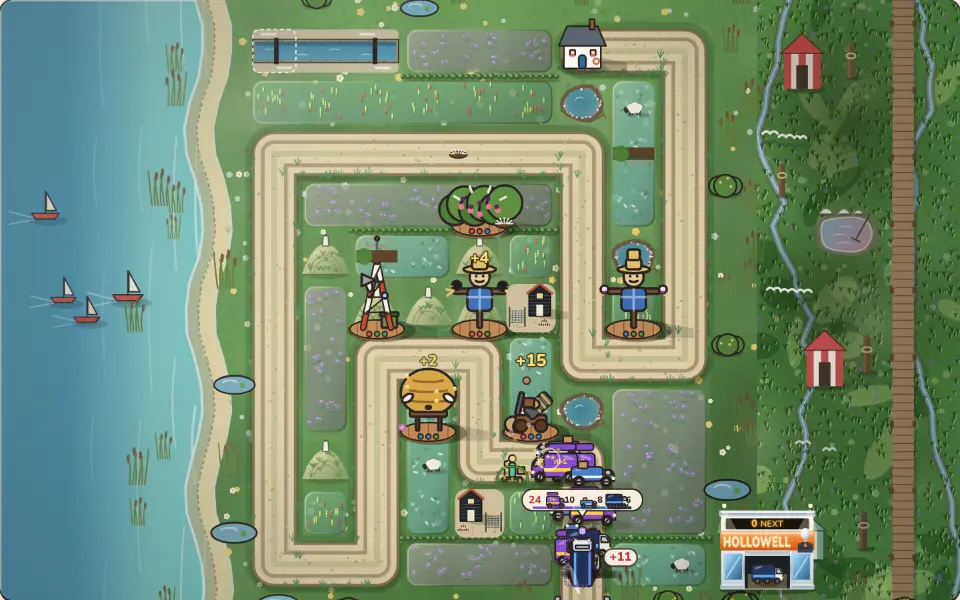
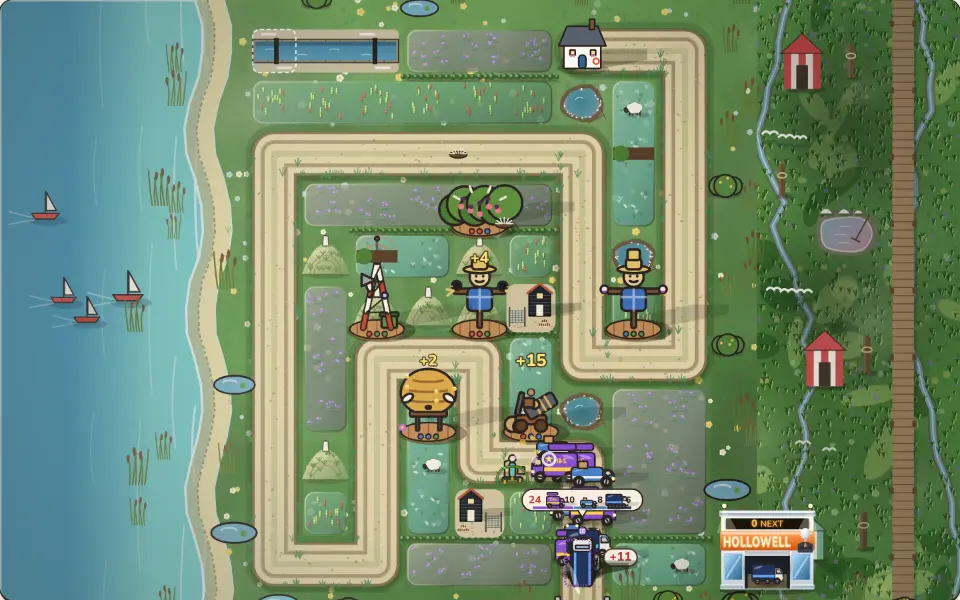
Hedgerow day across a level: in the last third the farmhouse is lamplit in 2D (warm pools at its windows, the door on a lit hall); Hedgerow key art re-shot (render.ts and sprites.ts changed) (plan item 485, slice 1)
Claude-Session: https://claude.ai/code/session_01SimvMRhXcBtuKMY5hADHgk

diff --git a/games/hedgerow/src/sprites.ts b/games/hedgerow/src/sprites.ts
@@ -28,6 +28,11 @@ let sun2d = { x: 0.94, y: 0.34 };
 export function setShadowSun(dir: { x: number; y: number }): void {
   sun2d = dir;
 }
+/** Plan item 485: in the day's last third the farm's lamps are lit (the farmhouse windows glow out onto the yard). */
+let lamps2d = false;
+export function setLamps(on: boolean): void {
+  lamps2d = on;
+}
 export function shadowSun(): { x: number; y: number } {
   return sun2d;
 }
@@ -2541,6 +2546,20 @@ export function drawFarmhouse(ctx: C, x: number, y: number, s: number, t: number
   rr(ctx, x - s * 0.07, base - s * 0.26, s * 0.14, s * 0.26, s * 0.06, H.door);
   for (const wx of [-0.24, 0.16]) {
     rr(ctx, x + wx * s, base - s * 0.36, s * 0.1, s * 0.1, s * 0.01, "#ffe39a");
+  }
+  if (lamps2d) {
+    // lamplight: each window's warm pool, and the door left ajar on a lit hall
+    ctx.save();
+    ctx.globalCompositeOperation = "lighter";
+    for (const [cx, cy, r] of [[x - s * 0.19, base - s * 0.31, s * 0.32], [x + s * 0.21, base - s * 0.31, s * 0.32], [x, base - s * 0.08, s * 0.42]] as const) {
+      const g = ctx.createRadialGradient(cx, cy, 0, cx, cy, r);
+      g.addColorStop(0, "rgba(255,196,96,0.55)");
+      g.addColorStop(1, "rgba(255,150,60,0)");
+      ctx.fillStyle = g;
+      ctx.fillRect(cx - r, cy - r, r * 2, r * 2);
+    }
+    ctx.restore();
+    rr(ctx, x - s * 0.07, base - s * 0.26, s * 0.05, s * 0.26, s * 0.02, "#ffd27a");
   }
   // Flower boxes.
   ctx.fillStyle = "#e8748b";

diff --git a/games/hedgerow/src/render.ts b/games/hedgerow/src/render.ts
@@ -67,9 +67,10 @@ import {
   star,
   drawThornPile,
   castShadow,
+  setLamps,
   setShadowSun,
 } from "./sprites";
-import { dayPhase, dayShadowDir, dayShadowLength, daySunRgb, dayWarmth } from "./sunlight";
+import { dayLamps, dayPhase, dayShadowDir, dayShadowLength, daySunRgb, dayWarmth } from "./sunlight";
 
 /** Plan item 322: a tower on the field is drawn this much over its cell's size. */
 // Plan item 431: 1.4 cells (was 1.2): a tower is the thing worth looking at on the field, not a token on its plot (at
@@ -814,6 +815,7 @@ export class Renderer {
     const away = dayShadowDir(game.level.id, this.day);
     const len = dayShadowLength(this.day);
     setShadowSun({ x: away.x * len, y: away.y * len });
+    setLamps(dayLamps(this.day));
     this.clock += dt;
     this.cheer = Math.max(0, this.cheer - dt);
     this.gold.age += dt;

diff --git a/docs/plan/two-week-plan.md b/docs/plan/two-week-plan.md
@@ -4520,7 +4520,7 @@ Progress (lane A, 2026-11-18 00:35, slice 1, d3a4d29): `src/ui/dailyPostcard.ts`
 
 ## 485. [ ] Hedgerow: the day passes over the field, morning to dusk across a level *(handed back 2026-11-18 02:40 by lane A after slice 1)*
 
-Progress (lane A, 2026-11-18 02:40, slice 1): the model in `sunlight.ts` (`dayPhase`, `dayAzFor` ±40 about the act's noon, `dayShadowDir`, `dayShadowLength` 1 at noon to 1.8, `dayWarmth` after noon, `dayLamps` from 2/3, `daySunRgb`), `tests/hedgerow-dayphase.test.ts`; `#stage[data-day-phase]` and `[data-lamps]` from main.ts's frame (the build phase shows the next round, so it never turns mid-wave); the 2D renderer eases `this.day` over 1.2 s (stepped under reduced motion) and sends the swung, lengthened sun to `setShadowSun` and `sunGrade`, plus a warm multiply in `sunGrade` by `dayWarmth`. The ease first ran on the game's dt, which is 0 between rounds while it waits on Go, so the light never moved: it now runs on wall-clock time, and the dusk shows (l21 2D round 26 warm, the lane amber: `e2e/screenshots/h485/c-*`). New spec hedgerow-dayphase (P, D): phase 0/1, lamps off/on, the field's 200x100 sample shifts dE 16.0 at P, 16.6 at D (just over 15: the 3D slice shouldn't weaken the 2D wash). Left: 3D (`render3d/palette.ts`, `backdrop.ts`), the lamps, the static terrain shadows (`theme.ts` uses `shadowDir` at build), shots P/D 2D/3D rounds 1/13/26. hedgerow-water passes at D.
+Progress (lane A, 2026-11-18 02:40, slice 1): the model in `sunlight.ts` (`dayPhase`, `dayAzFor` ±40 about the act's noon, `dayShadowDir`, `dayShadowLength` 1 at noon to 1.8, `dayWarmth` after noon, `dayLamps` from 2/3, `daySunRgb`), `tests/hedgerow-dayphase.test.ts`; `#stage[data-day-phase]` and `[data-lamps]` from main.ts's frame (the build phase shows the next round, so it never turns mid-wave); the 2D renderer eases `this.day` over 1.2 s (stepped under reduced motion) and sends the swung, lengthened sun to `setShadowSun` and `sunGrade`, plus a warm multiply in `sunGrade` by `dayWarmth`. The ease first ran on the game's dt, which is 0 between rounds while it waits on Go, so the light never moved: it now runs on wall-clock time, and the dusk shows (l21 2D round 26 warm, the lane amber: `e2e/screenshots/h485/c-*`). New spec hedgerow-dayphase (P, D): phase 0/1, lamps off/on, the field's 200x100 sample shifts dE 16.0 at P, 16.6 at D (just over 15: the 3D slice shouldn't weaken the 2D wash). 2D lamps: the farmhouse windows and door glow from the last third (`setLamps` in sprites.ts). Left: 3D (`render3d/palette.ts`, `backdrop.ts`), the depot's neon and the folk's lanterns, the static terrain shadows (`theme.ts` uses `shadowDir` at build), shots P/D 2D/3D rounds 1/13/26. hedgerow-water passes at D.
 - **Why:** `hedge-l21-2d-D`, `hedge-l21-3d-D`: round 1 and round 26 look the same; the light is fixed per act (`sunlight.ts` `ACT_SUN_AZ`/`ACT_SUN_COLOUR`), so a long level never moves on (VISION 2, 4). Checked 440 (the act's sun stays the midday key), 419/438 (golden hour becomes one point on the arc), 469 (dressing untouched), 479 (the last round lands at dusk), 43 (the Night twist keeps its own ground).
 - **Build:** `dayPhase(round, rounds)` in `sunlight.ts` (0 morning to 1 dusk): the azimuth swings about ±40 degrees round the act's noon, shadows lengthen and warm. 2D: `render.ts` shadow direction, rim and a warm grade; 3D: `render3d/palette.ts` and `backdrop.ts` key light and sky card. The last third: the farmhouse windows lit, the depot's band and billboards in neon, folk with lanterns. Eased over 1.2 s between rounds, never mid-wave; stepped under reduced motion. Cosmetic only.
 - **Accept:** `#stage[data-day-phase]` 0-1; rounds 1 and 26 differ by 15+ dE over a 200x100 field sample and the shadow angle by 30+ degrees; `[data-lamps=on]` in the last third; `dayPhase` unit-tested (monotonic); 3D +2 draw calls or fewer; level tests unchanged; shots P and D, 2D and 3D, rounds 1, 13 and 26.
